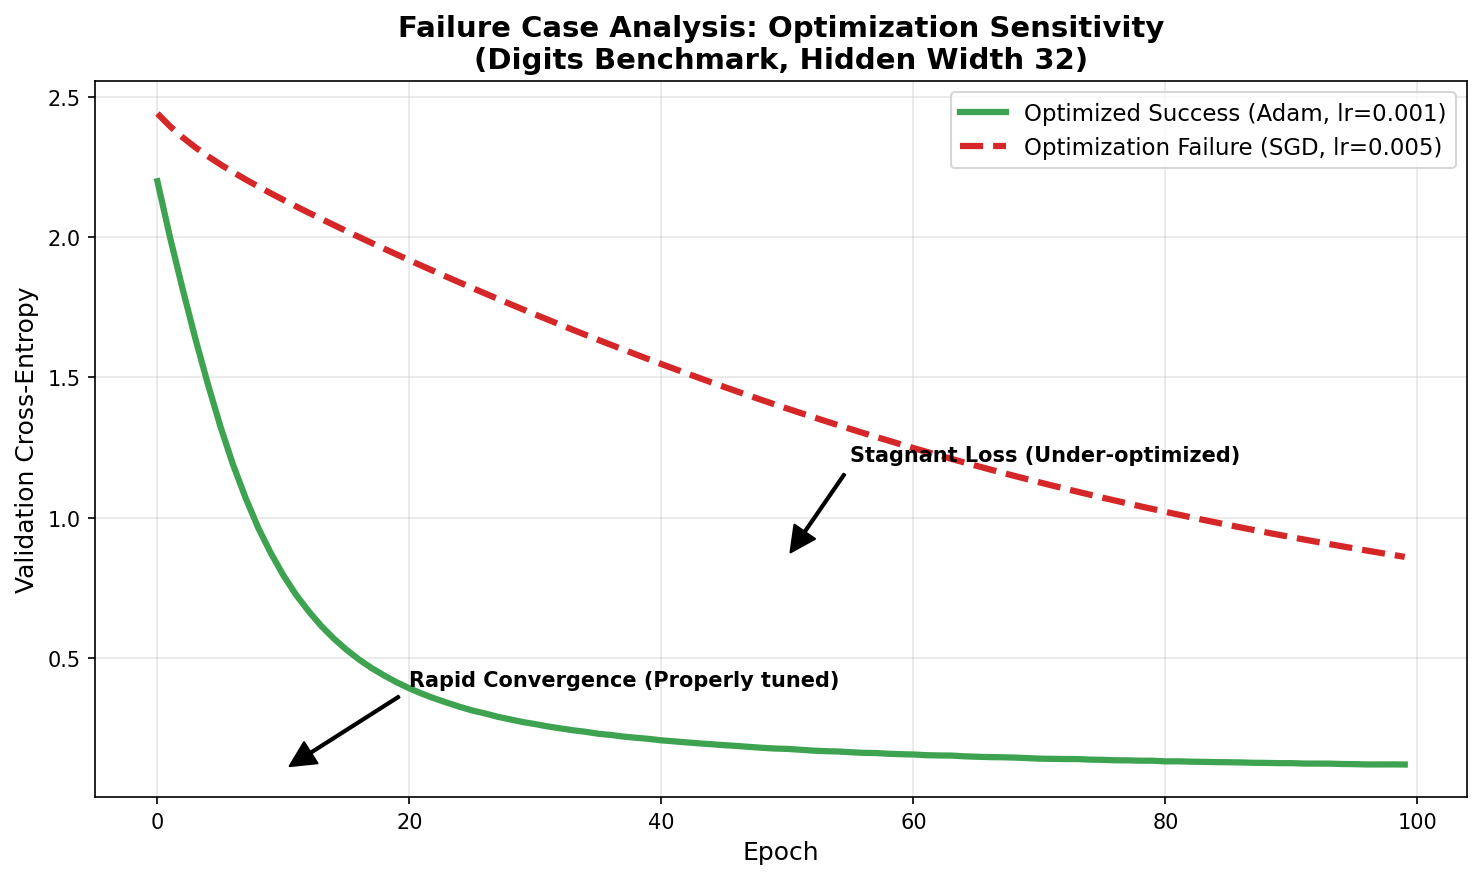
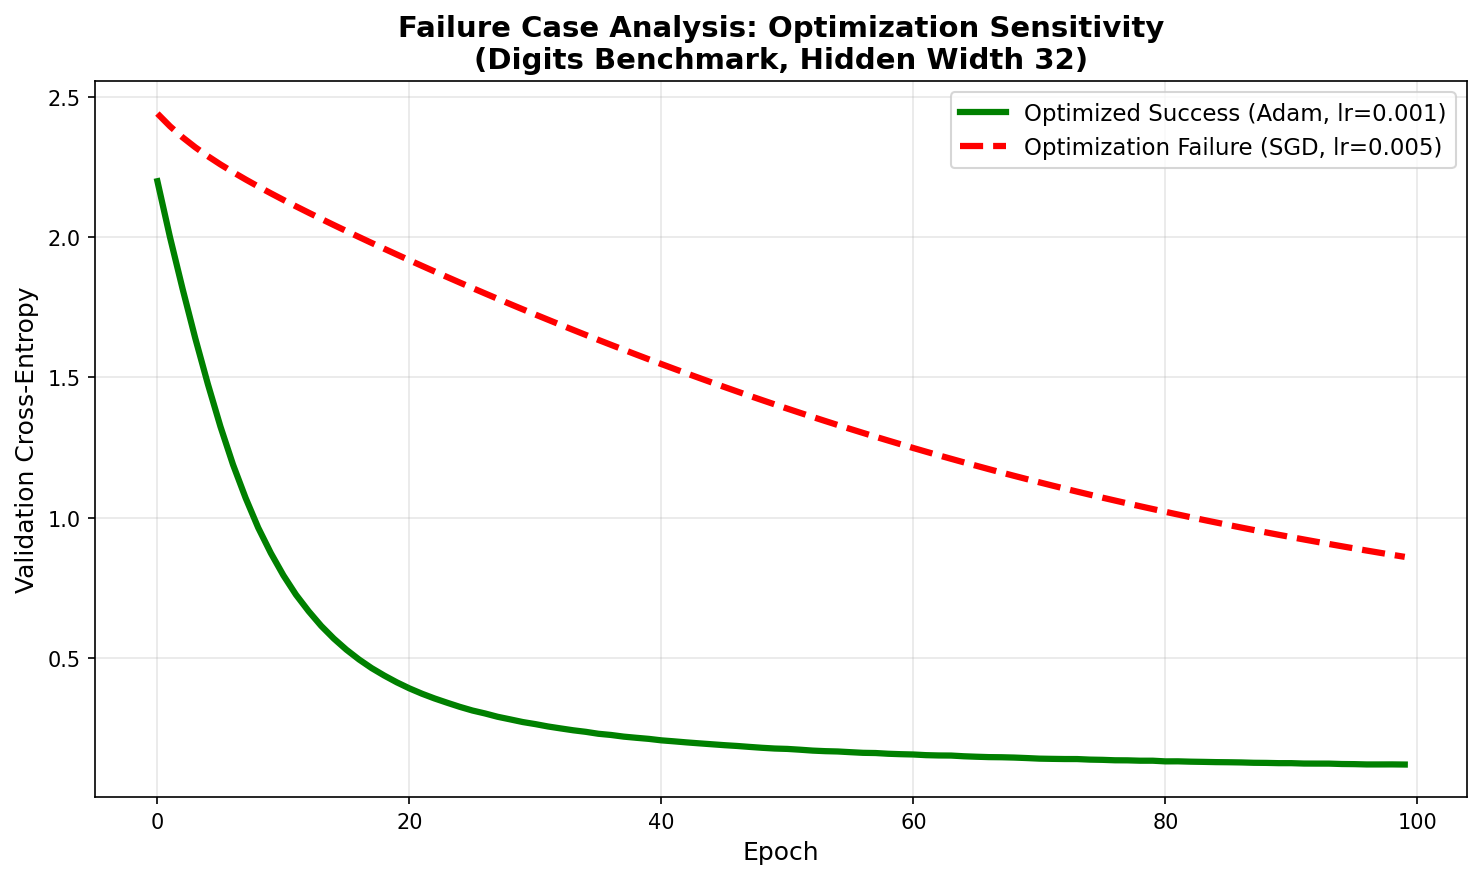
style: remove annotations and hex codes from failure analysis plot

diff --git a/src/run_digits.py b/src/run_digits.py
@@ -292,8 +292,8 @@ def run_failure_case_analysis(
     )
 
     plt.figure(figsize=(10, 6))
-    plt.plot(history_success['val_loss'], label='Optimized Success (Adam, lr=0.001)', color='#3da350', linewidth=3)
-    plt.plot(history_fail['val_loss'], label='Optimization Failure (SGD, lr=0.005)', color='#d62728', linestyle='--', linewidth=3)
+    plt.plot(history_success['val_loss'], label='Optimized Success (Adam, lr=0.001)', color='green', linewidth=3)
+    plt.plot(history_fail['val_loss'], label='Optimization Failure (SGD, lr=0.005)', color='red', linestyle='--', linewidth=3)
     
     plt.title('Failure Case Analysis: Optimization Sensitivity\n(Digits Benchmark, Hidden Width 32)', fontsize=14, fontweight='bold')
     plt.xlabel('Epoch', fontsize=12)
@@ -301,11 +301,6 @@ def run_failure_case_analysis(
     plt.grid(True, alpha=0.3)
     plt.legend(fontsize=11)
     
-    plt.annotate('Stagnant Loss (Under-optimized)', xy=(50, 0.86), xytext=(55, 1.2),
-                 arrowprops=dict(facecolor='black', shrink=0.05, width=1), fontsize=10, fontweight='bold')
-    plt.annotate('Rapid Convergence (Properly tuned)', xy=(10, 0.1), xytext=(20, 0.4),
-                 arrowprops=dict(facecolor='black', shrink=0.05, width=1), fontsize=10, fontweight='bold')
-
     plt.tight_layout()
     out_path = FIGURES_DIR / 'digits_failure_analysis.png'
     plt.savefig(str(out_path), dpi=150, bbox_inches='tight')
